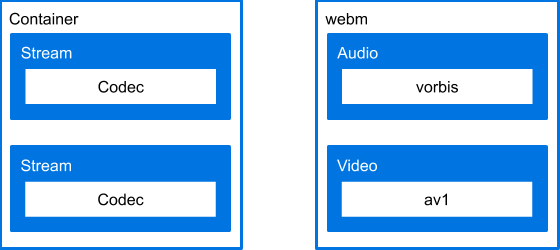
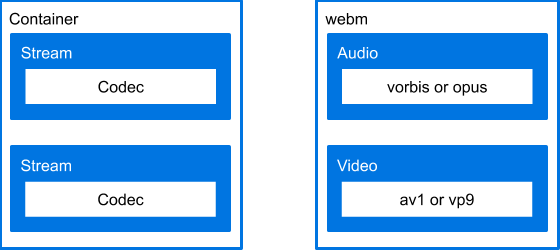
Updates from rev of "Conceptual Basics".

Changed region(s): [[0.6679, 0.336, 0.8804, 0.392], [0.6982, 0.756, 0.85, 0.84]]

diff --git a/src/site/content/en/media/cheetsheet/index.md b/src/site/content/en/media/cheetsheet/index.md
@@ -8,27 +8,35 @@ date: 2018-09-20
 updated: 2020-06-10
 ---
 
-This document shows in order commands needed to get from a raw mov file to
-encrypted assets packaged for DASH or HLS. For the sake of having a goal to
-illustrate, I'm converting my source file to a bitrate of 8Mbs at a resolution
-of 1080p (1920 x 1080). Adjust these values as your needs dictate.
+This page offers kinds sets of resources:
 
-Conversion is done with two applications:
+* Commands for manipulating specific characteristics of media files.
+* The sequence of commands needed to get from a raw mov file to encrypted media assets.
 
-* [Shaka Packager](https://github.com/google/shaka-packager) and
-* [ffmpeg](https://ffmpeg.org/download.html), version 3.2.2-tessus.
+Conversion is done with these applications:
+
+* [Shaka Packager](https://github.com/google/shaka-packager) ([on StackOverflow](https://stackoverflow.com/questions/tagged/shaka))
+* [ffmpeg](https://ffmpeg.org/download.html), version 4.2.2-tessus ([on StackOverflow](https://stackoverflow.com/questions/tagged/ffmpeg))
+* [OpenSSL](https://www.openssl.org/)  ([on StackOverflow](https://stackoverflow.com/questions/tagged/openssl))
+
 
 Although I've tried to show equivalent operations for all procedures, not all
 operations are possible in both applications.
 
-In many cases, commands may be combined in a single command line operation, and
-in actual use would be. For example, there's nothing preventing you from setting
-an output file's bitrate in the same operation as a file conversion. For this
-cheat sheet, I will show these operations (among others) as separate commands
-for the sake of clarity.
+In many cases, the commands I'm showing may be combined in a single command line
+operation, and in actual use would be. For example, there's nothing preventing
+you from setting an output file's bitrate in the same operation as a file
+conversion. For this cheat sheet, I often show these operations as separate
+commands for the sake of clarity.
 
 Please let me know of useful additions or corrections.
 [Pull requests are welcome](https://github.com/GoogleChrome/web.dev/tree/media/src/site/content/en/media/cheetsheet).
+
+{% Aside %}
+This page contains a few more commands than are covered in this section. Not
+only are there plans to cover these topics (we have drafts already), we also
+hope this page will be a resource for multiple levels of expertise.
+{% endAside %}
 
 ## Display characteristics
 
@@ -98,6 +106,12 @@ ffmpeg -i myvideo.mov -b:v 350K myvideo.mp4
 ffmpeg -i myvideo.mov -vf setsar=1:1 -b:v 350K myvideo.webm
 ```
 
+### Dimensions (resolution)
+
+```bash
+ffmpeg -i myvideo.webm -s 1920x1080 myvideo_1920x1080.webm
+```
+
 ### File type
 
 Shaka Packager cannot process mov files and hence cannot be used to convert
@@ -115,12 +129,6 @@ ffmpeg -i myvideo.mov myvideo.mp4
 ffmpeg -i myvideo.mov myvideo.webm
 ```
 
-### Resolution
-
-```bash
-ffmpeg -i myvideo.webm -s 1920x1080 myvideo_1920x1080.webm
-```
-
 ### Synchronize audio and video
 
 To ensure that audio and video synchronize during playback insert keyframes.
@@ -133,7 +141,8 @@ ffmpeg -i myvideo.mp4 -keyint_min 150 -g 150 -f webm -vf setsar=1:1 out.webm
 ### Codec
 
 The tables below list common containers and codecs for both audio and video, as
-well as the FFmpeg libary needed for conversion.
+well as the FFmpeg libary needed for conversion. A conversion library must be
+specified when converting files using FFmpeg.
 
 #### Video
 
@@ -151,9 +160,6 @@ well as the FFmpeg libary needed for conversion.
 | aac    | mp4       | aac        |
 | opus   | webm      | libopus    |
 | vorbis | webm      | libvorbis  |
-
-
-You might have an older file whose codec you want to update.
 
 ***mp4/H.264***
 
@@ -180,7 +186,7 @@ ffmpeg -i myvideo.webm -v:c copy -v:a libvorbis myvideo.webm
 ffmpeg -i myvideo.webm -v:c copy -v:a libopus myvideo.webm
 ```
 
-## Package
+## Packager
 
 ### DASH/MPD
 
@@ -211,7 +217,8 @@ ffmpeg -i myvideo.mp4 -c:a copy -b:v 8M -c:v copy -f hls -hls_time 10 \
 ### Create a key
 
 You can use the same method to create a key for both DASH and HLS. Do this using
-openssl. The following will create a key made of 16 hex values.
+[openssl](https://www.openssl.org/). The following will create a key made of 16
+hex values.
 
 ```bash
 openssl rand -out media.key 16
@@ -282,7 +289,12 @@ packager \
   --aes_signing_iv "d58ce954203b7c9a9a9d467f59839249"
 ```
 
-## All Together Now
+## Media conversion sequence
+
+This section shows in order commands needed to get from a raw mov file to
+encrypted assets packaged for DASH or HLS. For the sake of having a goal to
+illustrate, I'm converting my source file to a bitrate of 8Mbs at a resolution
+of 1080p (1920 x 1080). Adjust these values as your needs dictate.
 
 ### DASH/webm with Shaka Packager
 
@@ -305,8 +317,8 @@ Not all steps are possible with Shaka Packager, so I'll use ffmpeg when I need t
     openssl rand -out media.key 16
     ```
 
-3. Demux the audio and video, encrypt the new files, and output a media
-   presentation description (MPD) file.
+3. Demux (separate) the audio and video, encrypt the new files, and output a
+   media presentation description (MPD) file.
 
     The `-key` and `-key_id` flags are copied from the `media.key` file.
 
@@ -318,6 +330,13 @@ Not all steps are possible with Shaka Packager, so I'll use ffmpeg when I need t
       -key INSERT_KEY_HERE -key_id INSERT_KEY_ID_HERE \
       --mpd_output myvideo_vod.mpd
     ```
+
+4. Remux (recombine) the audio and video streams. If you're using a video
+   framework, you may not need to do this.
+
+   ```bash
+   TBD
+   ```
 
 ### DASH/mp4 with Shaka Packager
 
@@ -343,8 +362,8 @@ Not all steps are possible with Shaka Packager, so I'll use ffmpeg when I need t
     openssl rand -out media.key 16
     ```
 
-3. Demux the audio and video, encrypt the new files, and output a media
-   presentation description (MPD) file.
+3. Demux (separate) the audio and video, encrypt the new files, and output a
+   media presentation description (MPD) file.
 
     The `-key` and `-key_id` flags are copied from the `media.key` file.
 
@@ -357,6 +376,13 @@ Not all steps are possible with Shaka Packager, so I'll use ffmpeg when I need t
       --mpd_output myvideo_vod.mpd
     ```
 
+4. Remux (recombine) the audio and video streams. If you're using a video
+   framework, you may not need to do this.
+
+   ```bash
+   TBD
+   ```
+
 ### Widevine
 
 The two previous examples used Clear Key encryption. For widevine the final two
@@ -367,16 +393,26 @@ flag should be copied exactly from the example. The `--content-id` is 16 or 32
 random hex digits. Use the keys provided here instead of your own.  (This is how
 Widevine works.)
 
-```bash
-packager \
-  input=mymovie.mp4,stream=audio,output=myaudio.m4a \
-  input=mymovie.mp4,stream=video,output=myvideo.mp4 \
-  --enable_widevine_encryption \
-  --key_server_url "https://license.uat.widevine.com/cenc/getcontentkey/widevine_test" \
-  --content_id "fd385d9f9a14bb09" --signer "widevine_test" \
[1 lines of base64/hex data omitted]
-  --aes_signing_iv "d58ce954203b7c9a9a9d467f59839249"
-  ```
+1. Demux (separate) the audio and video, encrypt the new files, and output a
+   media presentation description (MPD) file.
+
+    ```bash
+    packager \
+      input=mymovie.mp4,stream=audio,output=myaudio.m4a \
+      input=mymovie.mp4,stream=video,output=myvideo.mp4 \
+      --enable_widevine_encryption \
+      --key_server_url "https://license.uat.widevine.com/cenc/getcontentkey/widevine_test" \
+      --content_id "fd385d9f9a14bb09" --signer "widevine_test" \
[1 lines of base64/hex data omitted]
+      --aes_signing_iv "d58ce954203b7c9a9a9d467f59839249"
+    ```
+
+2. Remux (recombine) the audio and video streams. If you're using a video
+   framework, you may not need to do this.
+
+   ```bash
+   TBD
+   ```
 
 ### HLS/mp4
 

diff --git a/src/site/content/en/media/application-basics/index.md b/src/site/content/en/media/application-basics/index.md
@@ -12,10 +12,17 @@ tags:
   - Shaka
 ---
 
+
+
 Much media work requires changing characteristics of media files, such as
 bitrate or resolution. Finding a straightforward way to get started can be
-bewildering and intimidating. In this section, I provide an onramp into that
+bewildering and intimidating. On this page, I provide an onramp into that
 world.
+
+You'll notice in what follows that the word 'resolution' doesn't appear. What
+the two applications output are just the dimensions, the numbers themselves. As
+explained on the previous page, resolution is just an informal shorthand for the
+dimensions of a video.
 
 This page has basics for two common media command-line utilities: [Shaka
 Packager](https://github.com/google/shaka-packager) and
@@ -62,9 +69,9 @@ Compare this basic pattern with a simple use of it to display file
 characteristics. In the example, I've lined up equivalent parts.
 
 ```bash
-packager stream_descriptor [stream_descriptor-2 [stream_descriptor-n]] [flags]
+packager stream_descriptor [stream_descriptor-n] [flags]
 
-packager input=glocken.mp4                                              --dump_stream_info
+packager input=glocken.mp4                       --dump_stream_info
 ```
 
 The command outputs this:
@@ -102,11 +109,12 @@ Stream [1] type: Audio
 Packaging completed successfully.
 ```
 
-Look for the characteristics discussed in the last section and notice a few
-things. The height and width are correct for full HD, and the audio and video
-codecs are among the preferred codecs for their container types, AAC for audio
-and H264 for video. Notice also that streams are identified with numbers. These
-are useful for operations that manipulate the audio and video separately.
+Look for the characteristics discussed in [the previous
+section](../application-basics) and notice a few things. The height and width
+are correct for full HD, and the audio and video codecs are among the preferred
+codecs for their container types, AAC for audio and H264 for video. Notice also
+that streams are identified with numbers. These are useful for operations that
+manipulate the audio and video separately.
 
 Notice that it doesn't show the bitrate. Despite what's missing, it's easier to
 read, which is why I use it whenever I can. When I need information that Shaka
@@ -125,9 +133,11 @@ ffmpeg [GeneralOptions] [InputFileOptions] -i input [OutputFileOptions] output
 ```
 
 Like Shaka Packager this application can handle multiple streams. Some of its
-options can be used in multiple locations and have different meanings depending
-on where they are in the command. Be aware of this as you look at command line
-examples on sites such as StackOverflow and similar sites.
+options are used in multiple locations and have different effects on file output
+depending on where they are in the command. Be aware of this as you look at
+[FFmpeg](https://stackoverflow.com/questions/tagged/ffmpeg) or
+[Shaka](https://stackoverflow.com/questions/tagged/shaka) Packager examples on
+sites such as StackOverflow and similar sites.
 
 I'll again compare the basic pattern to the example for displaying file characteristics.
 

diff --git a/src/site/content/en/media/file-basics/index.md b/src/site/content/en/media/file-basics/index.md
@@ -30,11 +30,12 @@ more _streams_. A media file can have any number of streams, of [more
 types](https://developer.mozilla.org/en-US/docs/Web/Media/Formats) than I will
 go into here.
 
-My examples contain at most two streams: an audio stream and a video stream.
-Among the other types you might encounter are captions and data, both of which
-are beyond the scope of this article. There are instances where audio and
-video streams are dealt with separately. Most files you'll encounter will only
-contain a single audio and a single video stream.
+The sample files used later in this section contain at most two streams: an
+audio stream and a video stream. Among the other types you might encounter are
+captions and data, both of which are beyond the scope of this article. There are
+instances where audio and video streams are dealt with separately. Most files
+you'll encounter will only contain a single audio stream and a single video
+stream.
 
 Within the audio and video streams, the actual data is compressed using a codec.
 A _codec_, or coder/decoder, is a compression format for video or audio data. The
@@ -42,7 +43,7 @@ distinction between a container and a codec is important becasue files with the
 same container can have their contents encoded with different codecs.
 
 The image below illustrates this structure. On the left is the basic structure.
-On the right are the specifics of that structure for a webm file.
+On the right are the specifics of that structure for a single webm file.
 
 <figure class="w-figure  w-figure--inline-right">
   <img src="./media-container-onion.png" alt="Comparing media file structure with a hypothetical media file.">
@@ -56,7 +57,7 @@ and [audio
 codecs](ttps://developer.mozilla.org/en-US/docs/Web/Media/Formats/Audio_codecs)
 would be a whole website itself. The links just provided are for MDN's practical
 lists of what's usable on the web. Listed below are the currently preferred file
-types and the codecs they may use. Follow the links for browser support.
+types and the codecs they may use. Follow the links for browser support lists.
 
 | File type | Video Codec | Audio Codec |
 | ---- | ----- | ---- |
@@ -79,13 +80,4 @@ resolution defined as [full
 HD](https://www.google.com/search?q=what+is+hd+resolution&oq=what+is+hd+resolution&aqs=chrome.0.0l6.3183j0j8&sourceid=chrome&ie=UTF-8#q=full+hd+resolution).
 
 In the next section, you'll examine these characteristics using two command line
-tools: Shaka Packager and FFmpeg. You'll notice that the word 'resolution'
-doesn't appear. What the two applications output are just the dimensions, the
-numbers themselves.
-
-
-
-
-
-
-
+tools: Shaka Packager and FFmpeg.

diff --git a/src/site/content/en/media/media-experience/index.md b/src/site/content/en/media/media-experience/index.md
@@ -1,13 +1,11 @@
 ---
 layout: post
-title: What is a media experience
+title: What is a media experience?
 description: |
   TBD
 date: 2017-06-30
 updated: 2020-06-10
 ---
-
-[Intro -TBD]
 
 You've landed on this page because you're looking to add video to a web site.
 There are three approaches you can take.
@@ -18,8 +16,8 @@ There are three approaches you can take.
   Player](https://developer.jwplayer.com/), or [Video.js](http://videojs.com/).
 * Building your own media streaming application.
 
-This site only covers the first two. The last item, building a media streaming
-application beyond the scope of this site. Frankly, it requries a team of expert
-programmers and thousands of human-hours of work. Unless your goal is to enter
-that market as a competitor, you're better off using one of the first two
-methods.
+This site only covers the first, at lease for now. The last item, building a
+media streaming application beyond the scope of this site. Frankly, it requries
+a team of expert programmers and thousands of human-hours of work. Unless your
+goal is to enter that market as a competitor, you're better off using one of the
+first two methods.
